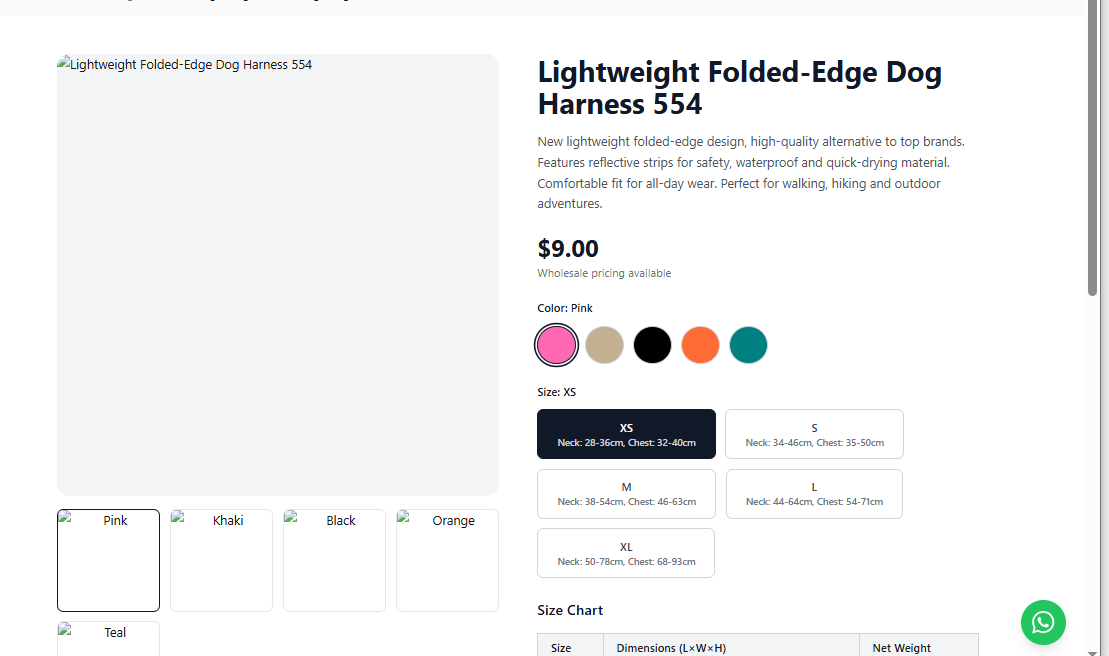
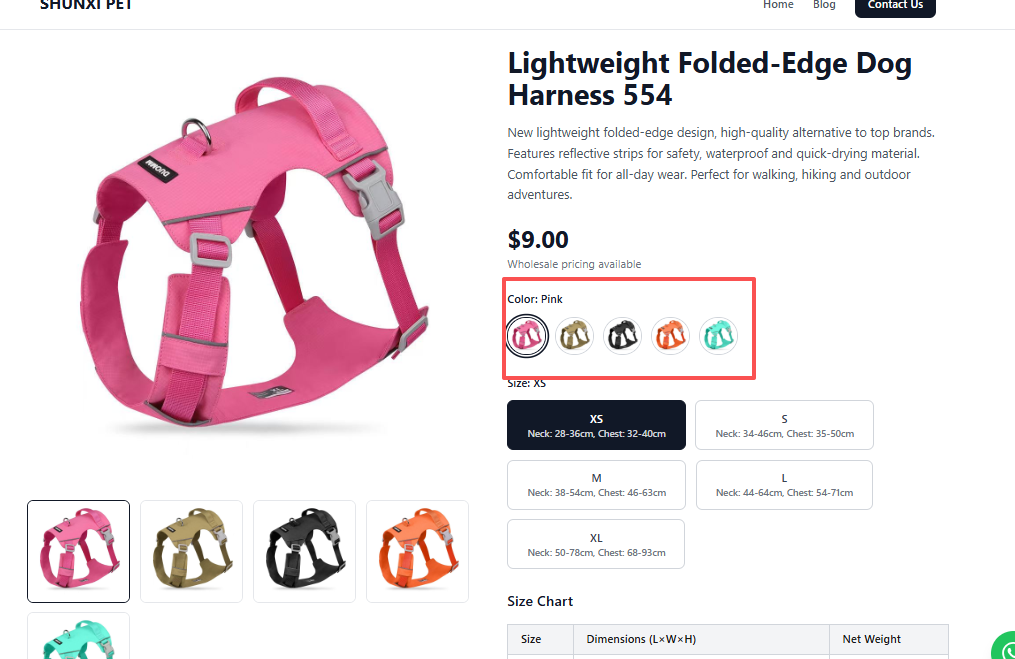
fix: 修复颜色选择按钮显示样式，使用纯色圆点代替图片

diff --git a/src/main.ts b/src/main.ts
@@ -308,11 +308,10 @@ async function renderProductDetailPage(app: HTMLElement, productId: number, cate
                   ${productVariants.map((v, i) => `
                     <button 
                       onclick="selectColor('${v.color_name}', '${v.image}', this)"
-                      class="color-btn w-12 h-12 rounded-full border-2 ${i === 0 ? 'border-gray-900 ring-2 ring-gray-900 ring-offset-2' : 'border-gray-300'} transition-all hover:scale-110 overflow-hidden"
+                      class="color-btn w-10 h-10 rounded-full border-2 ${i === 0 ? 'border-gray-900 ring-2 ring-gray-900 ring-offset-2' : 'border-gray-300'} transition-all hover:scale-110"
+                      style="background-color: ${v.color_code || '#ccc'}"
                       title="${v.color_name}"
-                    >
-                      <img src="${v.image}?v=20250330" alt="${v.color_name}" class="w-full h-full object-cover" onerror="this.onerror=null; this.src='${v.image}';" />
-                    </button>
+                    ></button>
                   `).join('')}
                 </div>
               </div>
